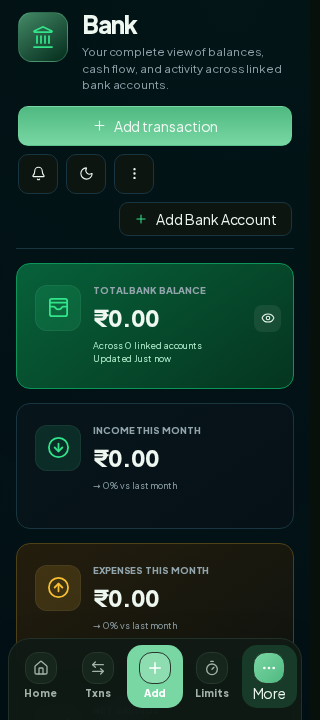
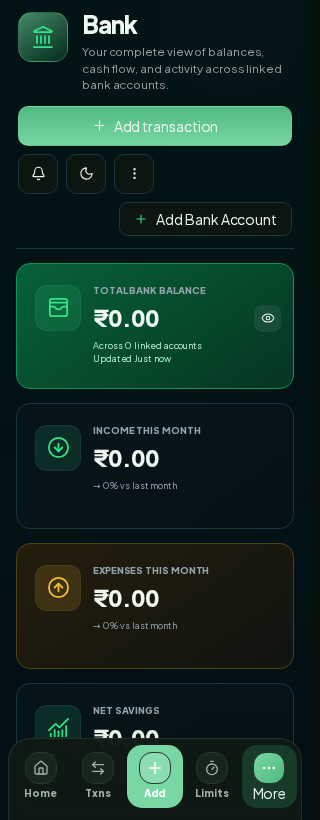
Fix bank account rows overlapping on narrow mobile widths.
Stack account cards instead of squeezing six desktop columns into three, and tighten investments/transaction list rows the same way.

diff --git a/frontend/web/src/app/bank23.css b/frontend/web/src/app/bank23.css
@@ -1067,10 +1067,30 @@ html[data-theme="dark"] .bank23-row {
   }
   .bank23-head-actions {
     flex-wrap: wrap;
+    width: 100%;
   }
   .bank23-add {
-    flex: 1;
+    flex: 1 1 100%;
+    width: 100%;
     justify-content: center;
+  }
+  .bank23-head-actions > .bank23-notify-wrap,
+  .bank23-head-actions > .bank23-icon-btn {
+    flex: 0 0 40px;
+  }
+  .bank23-subactions {
+    width: 100%;
+    display: flex;
+    flex-wrap: wrap;
+    align-items: center;
+    gap: 8px;
+  }
+  .bank23-addbank {
+    flex: 1 1 100%;
+    width: 100%;
+    min-width: 0;
+    justify-content: center;
+    box-sizing: border-box;
   }
   .bank23-title p {
     white-space: normal;
@@ -1081,10 +1101,80 @@ html[data-theme="dark"] .bank23-row {
   .bank23-tablehdr {
     display: none;
   }
+  .bank23-pad {
+    min-height: 0;
+    overflow: hidden;
+  }
+  /* Card stack: bank → balance → in/out → updated (never 6-col squeeze) */
   .bank23-row {
     height: auto;
-    min-height: 72px;
-    grid-template-columns: 1.4fr 1fr 1fr;
+    min-height: 0;
+    display: grid;
+    grid-template-columns: minmax(0, 1fr) minmax(0, 1fr);
+    gap: 8px 10px;
+    align-items: start;
+    padding: 12px 40px 12px 12px;
+  }
+  .bank23-row > .bank23-bank {
+    grid-column: 1 / -1;
+    min-width: 0;
+  }
+  .bank23-bank b {
+    white-space: normal;
+    flex-wrap: wrap;
+    overflow-wrap: anywhere;
+  }
+  .bank23-bank small {
+    white-space: normal;
+    overflow-wrap: anywhere;
+  }
+  .bank23-row > .bank23-cell:nth-child(2) {
+    grid-column: 1 / -1;
+    height: auto;
+  }
+  .bank23-row > .bank23-cell:nth-child(2) b {
+    font-size: 16px;
+    line-height: 1.2;
+    white-space: normal;
+    overflow-wrap: anywhere;
+  }
+  .bank23-row > .bank23-cell:nth-child(3),
+  .bank23-row > .bank23-cell:nth-child(4) {
+    height: auto;
+    flex-direction: column;
+    align-items: flex-start;
+    gap: 2px;
+  }
+  .bank23-row > .bank23-cell:nth-child(3)::before {
+    content: "Inflow";
+    font-size: 8.5px;
+    font-weight: 750;
+    letter-spacing: 0.04em;
+    text-transform: uppercase;
+    color: var(--b-muted);
+  }
+  .bank23-row > .bank23-cell:nth-child(4)::before {
+    content: "Outflow";
+    font-size: 8.5px;
+    font-weight: 750;
+    letter-spacing: 0.04em;
+    text-transform: uppercase;
+    color: var(--b-muted);
+  }
+  .bank23-row > .bank23-cell:nth-child(5) {
+    grid-column: 1 / -1;
+    height: auto;
+  }
+  .bank23-row > .bank23-cell:nth-child(5)::before {
+    content: "Updated ";
+    font-size: 8.5px;
+    font-weight: 750;
+    color: var(--b-muted);
+  }
+  .bank23-cell b {
+    white-space: normal;
+    overflow-wrap: anywhere;
+    word-break: break-word;
   }
   .bank23-row .bank23-more {
     position: absolute;
@@ -1113,6 +1203,13 @@ html[data-theme="dark"] .bank23-row {
   .bank23-cstat {
     height: auto;
     min-height: 58px;
+  }
+  .bank23-row {
+    padding: 12px 38px 12px 10px;
+    gap: 7px 8px;
+  }
+  .bank23-row > .bank23-cell:nth-child(2) b {
+    font-size: 15px;
   }
 }
 

diff --git a/frontend/web/src/app/tx16.css b/frontend/web/src/app/tx16.css
@@ -1071,11 +1071,22 @@ html:not(.dark):not([data-theme="dark"]) .tx16-page-btn.active {
     grid-template-columns: 1fr;
   }
   .tx16-row {
-    grid-template-columns: 64px minmax(0, 1fr) 100px;
+    grid-template-columns: 56px minmax(0, 1fr) minmax(0, 92px);
     padding: 10px 12px;
+    gap: 8px;
+    align-items: start;
+  }
+  .tx16-row > * {
+    min-width: 0;
   }
   .tx16-account {
     display: none;
+  }
+  .tx16-row b,
+  .tx16-row strong,
+  .tx16-row small {
+    white-space: normal;
+    overflow-wrap: anywhere;
   }
   .tx16-daybar em {
     display: none;

diff --git a/frontend/web/src/app/investments35.css b/frontend/web/src/app/investments35.css
@@ -372,6 +372,19 @@ html:not(.dark):not([data-theme="dark"]) .iv35-hero p{color:#5f7267}
     display: none !important;
   }
   .iv35-holding {
-    grid-template-columns: minmax(0, 1fr) auto auto !important;
+    grid-template-columns: minmax(0, 1fr) auto !important;
+    gap: 8px !important;
+  }
+  .iv35-holding .val,
+  .iv35-holding .ret {
+    text-align: left !important;
+  }
+  .iv35-holding > :first-child {
+    grid-column: 1 / -1;
+    min-width: 0;
+  }
+  .iv35-holding b,
+  .iv35-holding small {
+    overflow-wrap: anywhere;
   }
 }
